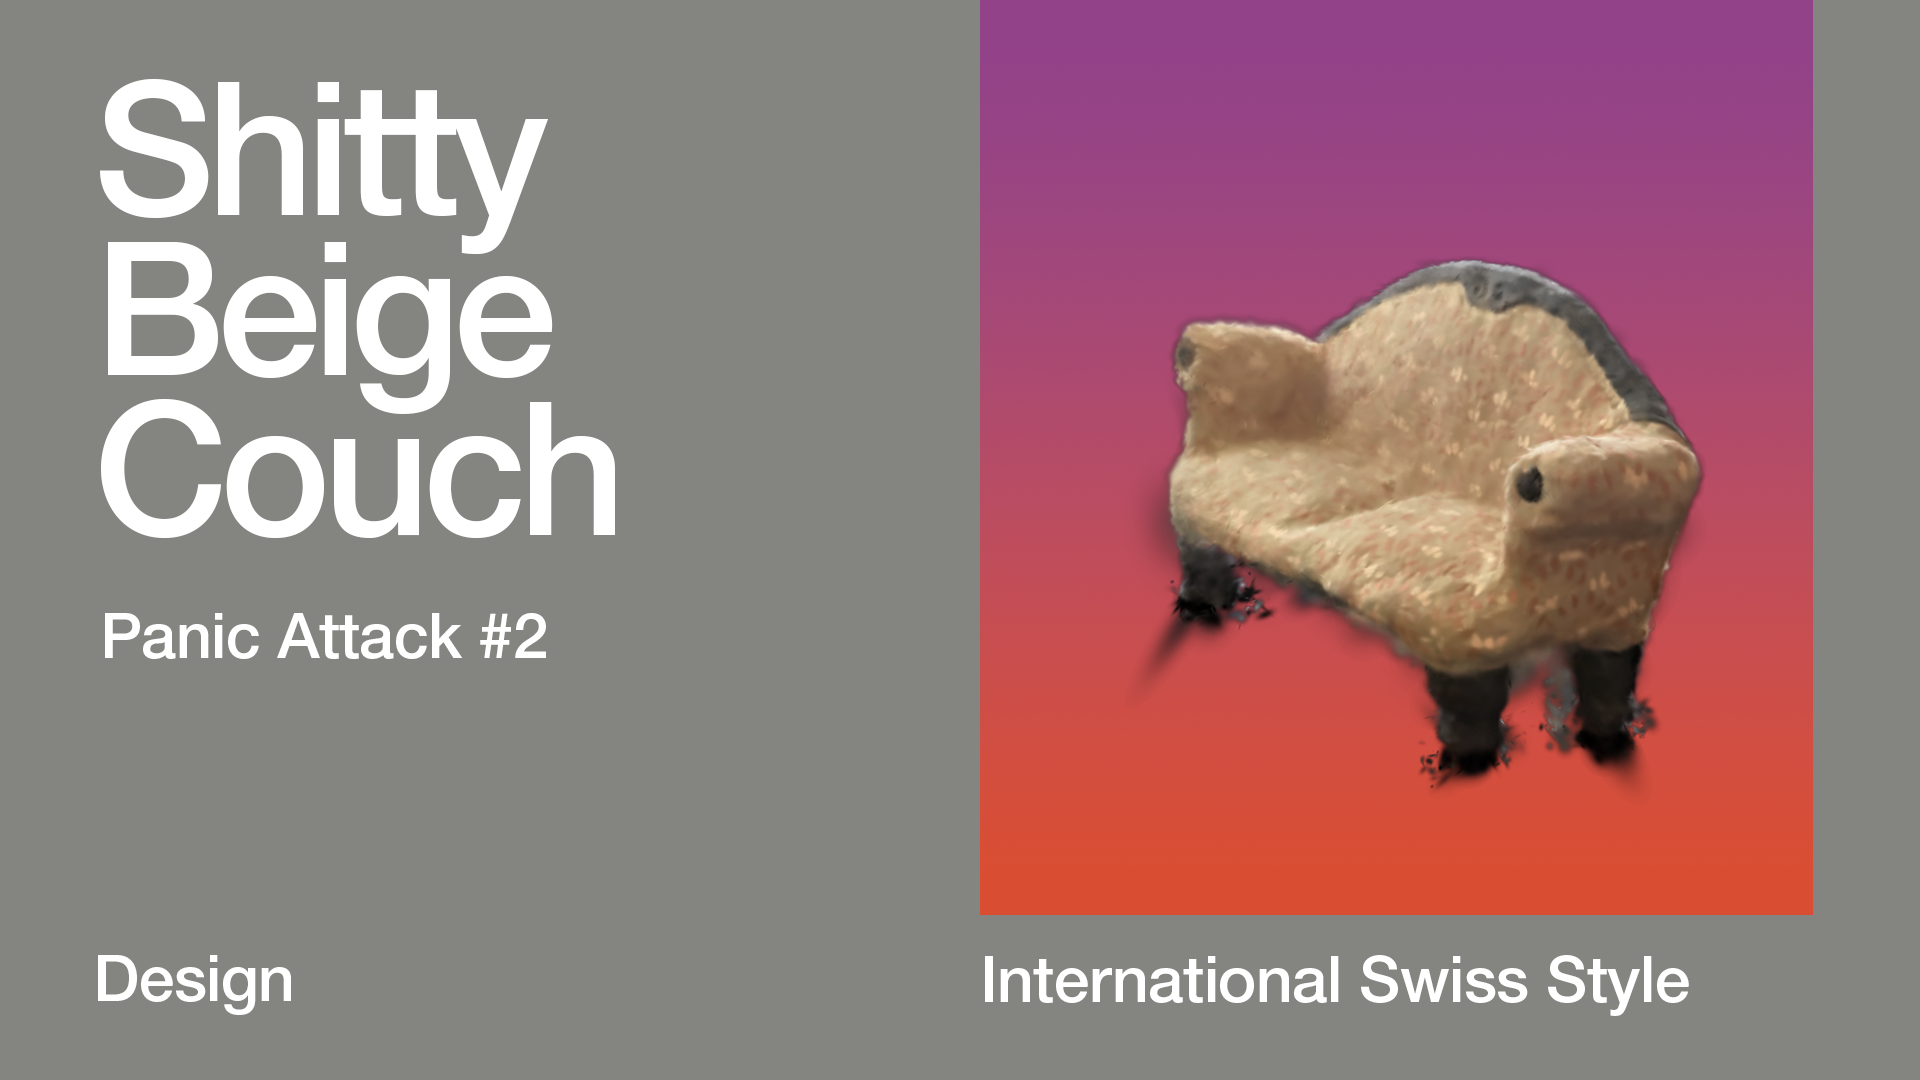
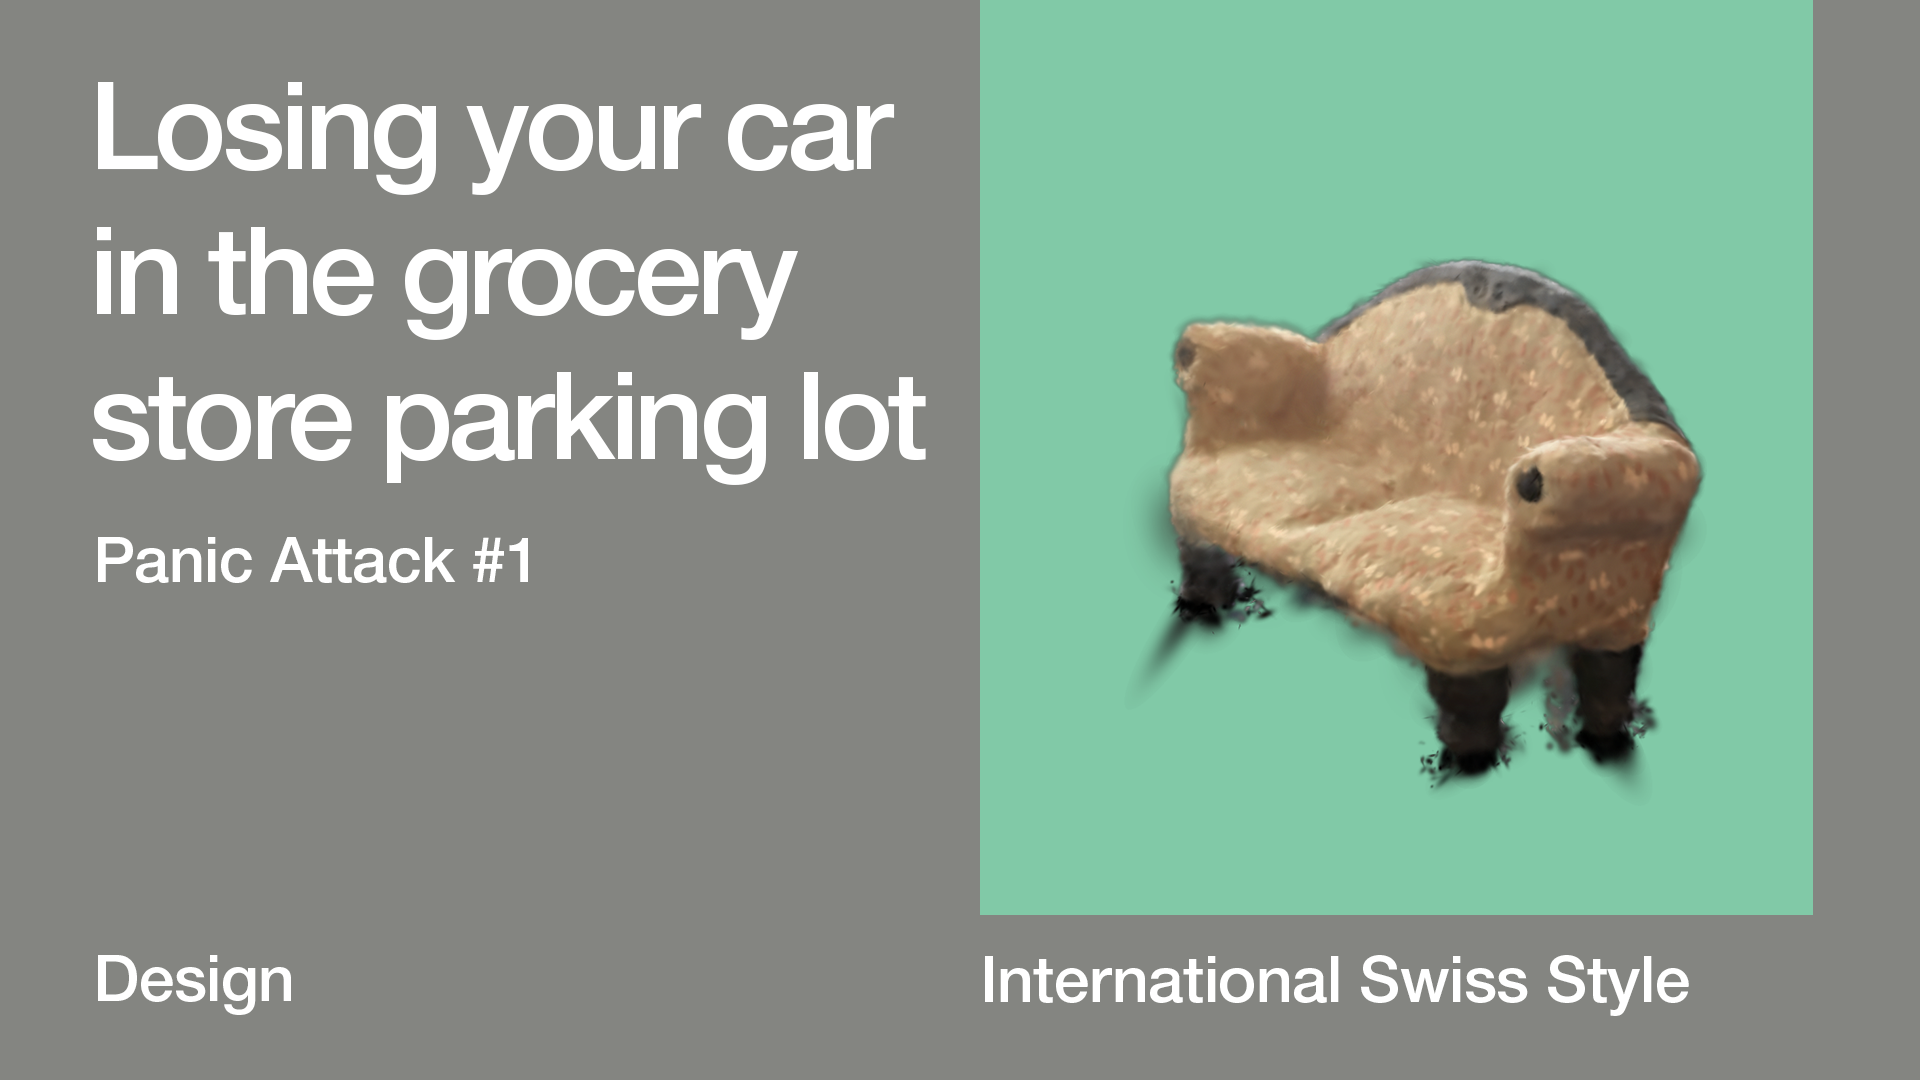
Did a styling pass

diff --git a/src/components/providers/AppProvider/index.tsx b/src/components/providers/AppProvider/index.tsx
@@ -11,22 +11,22 @@ export const prompts = ["Hey there, I'm <name>—welcome to <play>.",
 "Hello, I'm <name>. Let's dive into <play>.",
 "Hi, <name> here, and you're about to see <play>."]
 export const slideData = [
-    { title: "Play about love #1", object: "keys", model:"keys.splat"},
-    { title: "My Grandfather's Lover", object: "rose", model:"test.splat"},
-    { title: "Losing your car in the grocery store parking lot", subtitle: "Panic Attack #1", object: "car", model:"test.splat" },
-    { title: "My friend, Jordan", object: "dropped ice cream", "model":"iceCream.splat" },
-    { title: "Shitty Beige Couch", object: "couch", "model":"couch.splat"},
-    { title: "Late night bus in Edmonton", subtitle: "Panic Attack #2", object: "phone texts", "model":"phone.splat" },
-    { title: "Mental Health History", object: "cupcake", "model":"cupcake.splat" },
-    { title: "Loneliness", object: "clipboard", "model":"test.splat" },
-    { title: "Letter of Intent", object: "pizza", "model":"pizza.splat" },
-    { title: "Messy Love", object: "potty", "model":"" },
-    { title: "Moment of Truth", object: "bag of ice", "model":"ice.splat" },
-    { title: "Shower shadows the pain", subtitle: "Panic Attack #3", object: "blue shampoo bottle", "model":"test.splat" },
-    { title: "Grade Eight", object: "razor", "model":"razor.splat" },
-    { title: "See through me", object: "20 dollar bill", "model":"twenty.splat" },
-    { title: "Play about love #2", object: "battery tea light", "model":"test.splat" }
-  ];
+  { title: "Play about love #1", object: "keys", model: "keys.splat", thumbnail: "/images/thumbnail/keys.png" },
+  { title: "My Grandfather's Lover", className: "title-sm", object: "rose", model: "test.splat" },
+  { title: "Losing your car in the grocery store parking lot", className: "title-sm", subtitle: "Panic Attack #1", object: "car", model: "test.splat" },
+  { title: "My friend, Jordan", object: "dropped ice cream", model: "iceCream.splat", thumbnail: "/images/thumbnail/iceCream.png" },
+  { title: "Shitty Beige Couch", object: "couch", model: "couch.splat", thumbnail: "/images/thumbnail/couch.png" },
+  { title: "Late night bus in Edmonton", className: "!tracking-longtitle", subtitle: "Panic Attack #2", object: "phone texts", model: "phone.splat", thumbnail: "/images/thumbnail/phone.png" },
+  { title: "Mental Health History", object: "cupcake", model: "cupcake.splat", thumbnail: "/images/thumbnail/cupcake.png" },
+  { title: "Loneliness", className: "!tracking-longtitle", object: "clipboard", model: "test.splat" },
+  { title: "Letter of Intent", object: "pizza", model: "pizza.splat", thumbnail: "/images/thumbnail/pizza.png" },
+  { title: "Messy Love", object: "potty", model: "potty.splat", thumbnail: "/images/thumbnail/potty.png" },
+  { title: "Moment of Truth", object: "bag of ice", model: "ice.splat", thumbnail: "/images/thumbnail/ice.png" },
+  { title: "Shower shadows the pain", className: "mb-12", subtitle: "Panic Attack #3", object: "blue shampoo bottle", model: "test.splat" },
+  { title: "Grade Eight", object: "razor", model: "razor.splat", thumbnail: "/images/thumbnail/razor.png" },
+  { title: "See through me", object: "20 dollar bill", model: "twenty.splat", thumbnail: "/images/thumbnail/twenty.png" },
+  { title: "Play about love #2", object: "battery tea light", model: "test.splat" }
+];
   
 
 type AppContextType = {

diff --git a/src/app/select/page.tsx b/src/app/select/page.tsx
@@ -2,6 +2,7 @@
 
       import { slideData, useAppContext } from "@/components/providers/AppProvider";
 import { motion } from "framer-motion";
+import Image from "next/image";
 import React, { useEffect, useRef, useState } from "react";
 
 // ---- Button Component ----
@@ -135,19 +136,21 @@ const Page = () => {
       )}
 
       <h1 className="text-2xl font-bold">Select 5 Items</h1>
-      <div className="grid grid-cols-3 sm:grid-cols-4 md:grid-cols-6 gap-4">
+      <div className="grid grid-cols-3 sm:grid-cols-4 md:grid-cols-6 gap-4 ">
         {slideData.map((slide, index) => (
           <motion.div
             key={index}
             draggable
             onDragStart={() => setDraggingIndex(index)}
-            className="border rounded p-3 cursor-grab bg-white flex flex-col items-center text-center"
+            className="border rounded p-3 cursor-grab bg-white flex flex-col items-center text-center rounded-xl overflow-hidden"
             whileHover={{ scale: 1.05 }}
             whileTap={{ scale: 0.95 }}
           >
             <div className="text-sm font-semibold text-black">{slide?.title}</div>
             {slide.subtitle && <div className="text-xs text-black italic">{slide.subtitle}</div>}
             {slide.object && <div className="text-2xl text-black italic">{slide.object}</div>}
+            
+            {slide.thumbnail && <div className="rounded-2xl overflow-hidden"><Image src={slide.thumbnail} width={128} height={128} /></div>}
           </motion.div>
         ))}
       </div>
@@ -159,15 +162,15 @@ const Page = () => {
             key={idx}
             onDragOver={(e) => e.preventDefault()}
             onDrop={() => handleDrop(idx)}
-            className="w-40 h-64 border-2 border-dashed flex flex-col items-center justify-center bg-gray-100 text-sm text-center p-2 gap-2"
+            className="w-40 h-64 border-2 border-dashed flex flex-col items-center justify-center bg-gray-100 text-sm text-center p-2 gap-2 rounded-xl"
           >
             {typeof item === "number" && (
               <>
                 <div>
                   <div className="font-semibold text-black">{slideData[item]?.title}</div>
-                  {slideData[item].object && (
-                    <div className="text-3xl text-black italic">{slideData[item].object}</div>
-                  )}
+                  
+                  {slideData[item].thumbnail && <div className="rounded-2xl overflow-hidden"><Image src={slideData[item].thumbnail} width={128} height={128} /></div>}
+          
                 </div>
                 <Button
                   onClick={() =>

diff --git a/src/app/slide/[slide]/page.tsx b/src/app/slide/[slide]/page.tsx
@@ -8,7 +8,7 @@ import { useEffect, useState } from "react";
 const SlidePage = () => {
   const params = useParams();
   const slideIndex = parseInt(params.slide as string);
-  const [selectedSlide, setSelectedSlide] = useState<{ title: string; subtitle?: string; object?: string, model?:string } | null>(null);
+  const [selectedSlide, setSelectedSlide] = useState<{ title: string; subtitle?: string; object?: string, model?:string, className?:string} | null>(null);
 
   useEffect(() => {
     const saved = localStorage.getItem("selectedItems");
@@ -31,14 +31,14 @@ const SlidePage = () => {
   }
 
   return (
-    <div className="mx-[98px] grid grid-cols-12 grid-rows-12 h-screen">
+    <div className="mx-[78px] grid grid-cols-12 grid-rows-12 h-screen">
       {/* Left Column */}
-      <div className="col-span-6 row-span-12 grid grid-rows-12">
-        <div className="my-[79px] row-span-10 flex flex-col justify-between">
-          <h1 className="-mt-1.5">{selectedSlide.title}</h1>
+      <div className="col-span-6 row-span-12 grid grid-rows-12 ml-4">
+        <div className="my-[72px] row-span-10 flex flex-col">
+          <h1 className={`-mt-1.5 ${selectedSlide?.className? `${selectedSlide?.className}`:""}`}>{selectedSlide.title}</h1>
             
           {selectedSlide.subtitle && (
-          <h2 className="pb-3">{selectedSlide.subtitle}</h2>
+          <h2 className="pb-3 mt-14l">{selectedSlide.subtitle}</h2>
           )}
         </div>
         

diff --git a/src/app/globals.css b/src/app/globals.css
@@ -1,15 +1,18 @@
 @import "tailwindcss";
+@source inline("tracking-longtitle !tracking-longtitle title-sm !title-sm");
+
 
 :root {
   --background: #848581;
   --foreground: #171717;
 }
-@theme {
-  --text-9xl: 11.625rem;
-}
 @theme inline {
   --color-background: var(--background);
   --color-foreground: var(--foreground);
+  --tracking-longtitle: -0.5rem;
+  --tracking-normal: 0.05rem;
+  --text-8xl: 7.5rem;
+  --text-9xl: 11.625rem;
 }
 
 @media (prefers-color-scheme: dark) {
@@ -28,5 +31,9 @@ h1{
   @apply text-9xl font-medium leading-40 tracking-tight;
 }
 h2, .subtitle{
-  @apply text-6xl font-medium tracking-wider;
+  @apply text-6xl font-medium tracking-normal;
+}
+
+.title-sm{
+  @apply text-8xl -tracking-[0.25rem] -mt-5 leading-36 mb-11;
 }

diff --git a/src/app/layout.tsx b/src/app/layout.tsx
@@ -18,7 +18,6 @@ export default function RootLayout({
       <body
         className={`antialiased`}
       >
-        
         <AppProvider>
           {children}
         </AppProvider>
